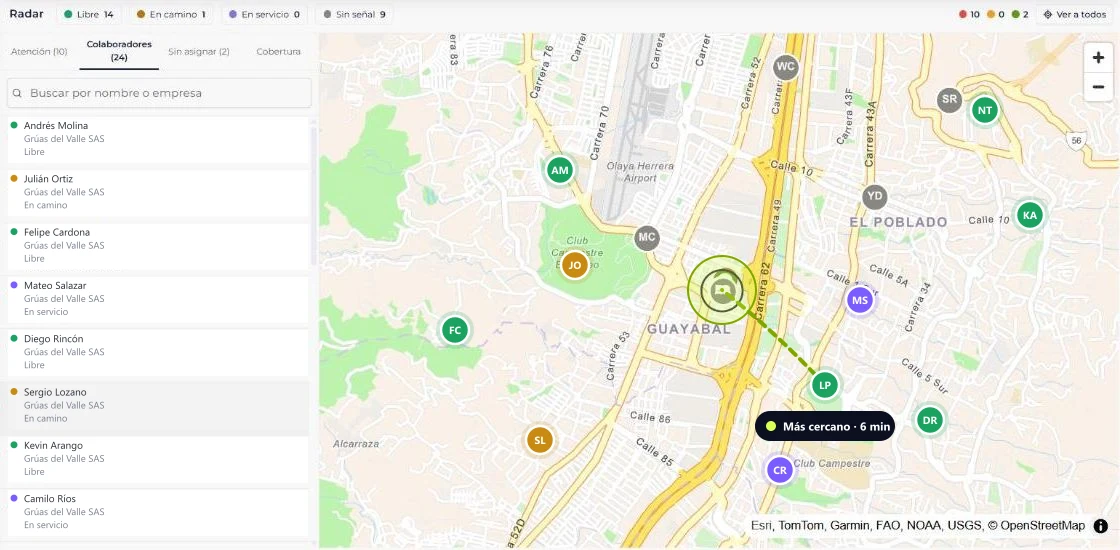
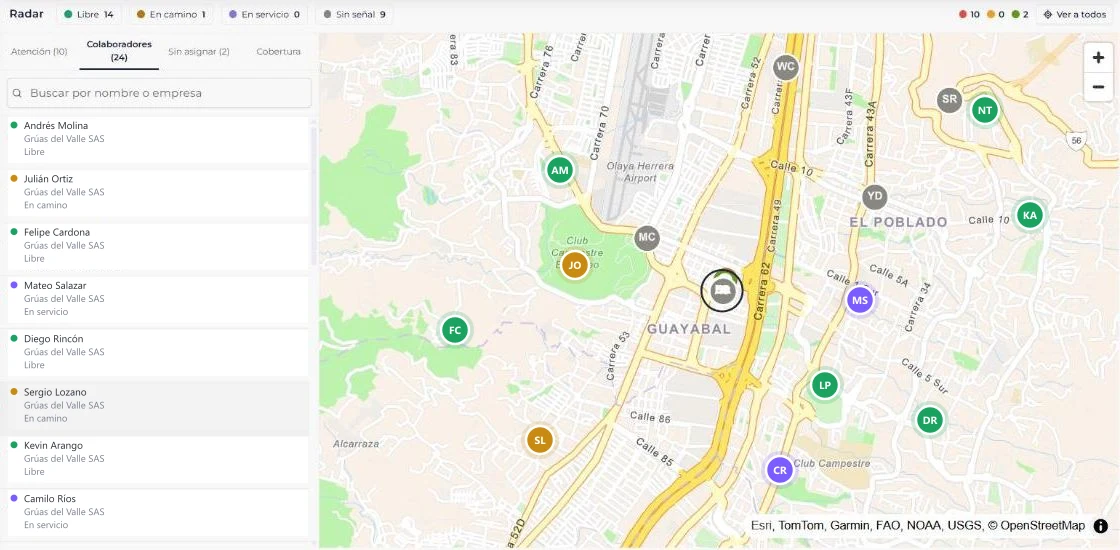
Proveedores: chat más compacto con WhatsApp en celular real y animación de asignación en el mapa. Inicio: hero con más aire

diff --git a/proveedores-de-asistencia/index.html b/proveedores-de-asistencia/index.html
@@ -3242,6 +3242,57 @@ body[data-page="prov"] main #contacto .iti__selected-dial-code,body[data-page="c
 @keyframes ulShine{0%,55%{transform:translateX(-120%)}80%,100%{transform:translateX(120%)}}
 @media(prefers-reduced-motion:reduce){.ul__src span,.ul__src i,.ul__ss,.ul__ss::after{animation:none}.ul__ss{transform:none}}
 
+/* Proveedores: novedades más compacta, fondo más oscuro y WhatsApp en un celular real */
+.nv__stage{max-width:1040px;margin-left:auto;margin-right:auto;grid-template-columns:minmax(0,1.3fr) minmax(0,.8fr);padding:clamp(16px,2.4vw,30px);background:radial-gradient(ellipse at 90% 110%,rgba(219,255,87,.18),transparent 55%),radial-gradient(ellipse at 0% 0%,rgba(47,123,255,.18),transparent 55%),linear-gradient(150deg,#0a1226,#05070e 75%)}
+.nv__stage::before{background-image:radial-gradient(circle,rgba(219,255,87,.09) 1px,transparent 1.6px)}
+.wc .nv__list{min-height:270px;gap:7px}
+.wc__m{font-size:12px;padding:7px 10px 16px}.wc__m--wa img{width:110px}
+.wc__area{padding:10px}
+.wc__tabs span{padding:6px 3px;font-size:10.5px}.wc__info b{font-size:10.5px}
+.ph{position:relative;justify-self:center;width:min(250px,100%);padding:9px;border-radius:44px;background:linear-gradient(145deg,#2b2f3a,#0b0d12);box-shadow:0 30px 60px rgba(0,0,0,.6),inset 0 0 0 1.5px #4a4f5c,inset 0 0 0 3px #12141a}
+.ph__btn{position:absolute;width:3px;border-radius:2px;background:#3a3f4b}
+.ph__btn--a{left:-2px;top:96px;height:26px}.ph__btn--b{left:-2px;top:132px;height:44px}.ph__btn--c{right:-2px;top:120px;height:62px}
+.ph__screen{position:relative;overflow:hidden;border-radius:36px;background:#ece5dd}
+.ph__bar{position:relative;display:flex;align-items:center;justify-content:space-between;height:34px;padding:0 20px;background:#075e54;color:#fff;font-size:11px}
+.ph__bar b{font-weight:700}
+.ph__island{position:absolute;left:50%;top:8px;width:72px;height:20px;margin-left:-36px;border-radius:12px;background:#000}
+.ph__icons{display:flex;align-items:center;gap:3px}.ph__icons i{width:3px;height:7px;border-radius:1px;background:#fff}.ph__icons i+i{height:9px}
+.ph__icons em{width:18px;height:9px;margin-left:3px;border-radius:3px;border:1.5px solid #fff;background:linear-gradient(90deg,#fff 70%,transparent 70%);background-clip:content-box;padding:1px}
+.ph .nv__wa-h{border-radius:0;padding:8px 12px 10px}
+.ph .nv__wa-b{border-radius:0;min-height:260px;padding:10px 8px;gap:6px}
+.ph .nv__b{font-size:11.5px}
+.ph__in{display:flex;align-items:center;gap:8px;padding:6px 8px 8px;background:#ece5dd}
+.ph__in span{flex:1;padding:7px 12px;border-radius:999px;background:#fff;color:#8a909c;font-size:11px}
+.ph__in i{width:30px;height:30px;border-radius:50%;background:#25d366 radial-gradient(circle at 50% 42%,#fff 0 3px,transparent 3.5px);flex:none}
+.ph__home{display:block;width:90px;height:4px;margin:2px auto 7px;border-radius:3px;background:#1b1f2a;opacity:.6}
+@media(max-width:900px){.nv__stage{grid-template-columns:1fr}}
+
+/* Proveedores: animación de asignación en el mapa */
+.as{position:relative}
+.as img{display:block;width:100%;height:auto}
+.as__fx{position:absolute;inset:0;width:100%;height:100%;overflow:visible}
+.as__ping{fill:none;stroke:#7fa600;stroke-width:3;transform-origin:722px 290px;animation:asPing 8s ease-out infinite}
+.as__ping--2{animation-delay:.6s}
+.as__svc{fill:rgba(219,255,87,.25);stroke:#7fa600;stroke-width:2}
+.as__route{fill:none;stroke:#7fa600;stroke-width:5;stroke-linecap:round;stroke-dasharray:100;stroke-dashoffset:100;animation:asRoute 8s ease infinite}
+.as__ring{fill:none;stroke:#dbff57;stroke-width:5;transform-origin:825px 385px;opacity:0;animation:asRing 8s ease infinite}
+.as__chip{opacity:0;transform-origin:825px 428px;animation:asChip 8s ease infinite}
+.as__chip rect{fill:#0b1020}.as__chip circle{fill:#dbff57}
+.as__chip text{fill:#fff;font:700 12px Roboto,Arial,sans-serif}
+@keyframes asPing{0%{transform:scale(1);opacity:.9}28%{transform:scale(5);opacity:0}100%{transform:scale(5);opacity:0}}
+@keyframes asRoute{0%,28%{stroke-dashoffset:100}48%,90%{stroke-dashoffset:0;opacity:1}97%,100%{stroke-dashoffset:0;opacity:0}}
+@keyframes asRing{0%,46%{opacity:0;transform:scale(.6)}52%{opacity:1;transform:scale(1.25)}58%,90%{opacity:1;transform:scale(1)}97%,100%{opacity:0}}
+@keyframes asChip{0%,52%{opacity:0;transform:translateY(8px) scale(.9)}58%,90%{opacity:1;transform:none}97%,100%{opacity:0}}
+@media(prefers-reduced-motion:reduce){.as__ping{display:none}.as__route{animation:none;stroke-dashoffset:0}.as__ring,.as__chip{animation:none;opacity:1}}
+
+/* Inicio: hero con más aire entre los elementos */
+.cx-hero{min-height:100vh;min-height:100svh;display:flex;align-items:center;padding:clamp(120px,16vh,170px) 0 clamp(70px,10vh,110px)}
+.cx-hero > .wrap{width:100%}
+.cx-h1{margin-top:clamp(28px,4vh,40px)}
+.cx-side{margin-top:clamp(44px,6vh,64px)}
+.cx-doors{margin-top:clamp(22px,3vh,30px);max-width:700px;gap:18px}
+.cx-doors .door--lime{padding:16px 56px 16px 20px}
+
 /* Títulos en Roboto */
 .pain b,.calc__big,.trio h3,.funnel__in h3,.paste h3,.hero h1,.h2,.statement p:first-child,.statement p:nth-child(2),.auto h3,.data h3,.sol__card h3,.proof b,.chaos__word,.step b,.mode b{font-family:var(--display);letter-spacing:-.02em}
 .hero h1{font-weight:600;letter-spacing:-.025em}
@@ -3390,7 +3441,7 @@ window.addEventListener('message',function(e){
       <div class="cs-b cs-b--light rv" style="--rd:.1s"><div class="cs-b__t"><b>Firma del usuario en la app</b><span>El servicio cierra con la firma del usuario, sin papeles.</span></div><div class="cs-b__v"><div class="cs-sign"><svg viewBox="0 0 220 70" aria-hidden="true"><path d="M10 50c18-30 30-38 36-30s-10 34 2 30 18-36 30-32-6 30 6 28 20-24 34-22 4 20 18 18 30-12 74-14"/></svg><span>Firma del cliente</span></div></div></div>
       <div class="cs-b cs-b--navy rv"><div class="cs-b__t"><b>Novedades resueltas en el chat</b><span>Autorizaciones y novedades dentro de cada servicio, con quién autorizó qué y cuándo.</span></div></div>
       <div class="cs-b cs-b--blue rv" style="--rd:.05s"><div class="cs-b__t"><b>Radar de técnicos</b><span>Mira quién está libre, en camino o en servicio, sin llamar a nadie.</span></div></div>
-      <div class="cs-b cs-b--lime cs-b--full rv" style="--rd:.1s"><div class="cs-b__t"><b>Asigna al técnico más cercano</b><span>Tus técnicos conectados en el mapa, con su estado en vivo, para mandar al que está más cerca. Nombres de ejemplo.</span></div><div class="cs-b__v cs-b__v--img cs-b__v--map"><img src="/img/plataforma/proveedores/radar-tecnicos.webp" alt="Radar de Wip con los técnicos conectados en el mapa y el más cercano al servicio" width="1120" height="550" loading="lazy" decoding="async"></div></div>
+      <div class="cs-b cs-b--lime cs-b--full rv" style="--rd:.1s"><div class="cs-b__t"><b>Asigna al técnico más cercano</b><span>Tus técnicos conectados en el mapa, con su estado en vivo, para mandar al que está más cerca. Nombres de ejemplo.</span></div><div class="cs-b__v cs-b__v--img cs-b__v--map"><div class="as"><img src="/img/plataforma/proveedores/radar-tecnicos.webp" alt="Radar de Wip con los técnicos conectados en el mapa y el más cercano al servicio" width="1120" height="550" loading="lazy" decoding="async"><svg class="as__fx" viewBox="0 0 1120 550" aria-hidden="true"><circle class="as__ping" cx="722" cy="290" r="30"/><circle class="as__ping as__ping--2" cx="722" cy="290" r="30"/><circle class="as__svc" cx="722" cy="290" r="34"/><path class="as__route" d="M722 290 Q 760 350 825 385" pathLength="100"/><circle class="as__ring" cx="825" cy="385" r="22"/><g class="as__chip"><rect x="740" y="412" width="170" height="32" rx="16"/><circle cx="758" cy="428" r="5"/><text x="770" y="432.5">Asignado · llega en 6 min</text></g></svg></div></div></div>
     </div>
   </div>
 </section>
@@ -3417,7 +3468,7 @@ window.addEventListener('message',function(e){
         </div>
         <div class="wc__in"><span class="wc__emo"></span><span class="wc__ph">Escribe tu mensaje o usa la voz</span></div>
       </div>
-      <div class="nv__wa" aria-hidden="true">
+      <div class="nv__wa ph" aria-hidden="true"><span class="ph__btn ph__btn--a"></span><span class="ph__btn ph__btn--b"></span><span class="ph__btn ph__btn--c"></span><div class="ph__screen"><div class="ph__bar"><b>10:53</b><span class="ph__island"></span><span class="ph__icons"><i></i><i></i><em></em></span></div>
         <div class="nv__wa-h"><i>GV</i><div><b>Grúas del Valle</b><span>en línea</span></div></div>
         <div class="cht__list nv__wa-b">
           <div class="nv__b" style="--d:0">Hola Laura, tu grúa va en camino. Llega en 12 min.<em>10:38</em></div>
@@ -3426,6 +3477,7 @@ window.addEventListener('message',function(e){
           <div class="nv__b" style="--d:3">Listo, quedó autorizado. ✓<em>10:53</em></div>
           <div class="nv__b nv__b--me" style="--d:4">¡Gracias! 🙌<em>10:53</em></div>
         </div>
+        <div class="ph__in"><span>Mensaje</span><i></i></div><span class="ph__home"></span></div>
       </div>
     </div>
     <ul class="nv__pts rv">

diff --git a/index.html b/index.html
@@ -3242,6 +3242,57 @@ body[data-page="prov"] main #contacto .iti__selected-dial-code,body[data-page="c
 @keyframes ulShine{0%,55%{transform:translateX(-120%)}80%,100%{transform:translateX(120%)}}
 @media(prefers-reduced-motion:reduce){.ul__src span,.ul__src i,.ul__ss,.ul__ss::after{animation:none}.ul__ss{transform:none}}
 
+/* Proveedores: novedades más compacta, fondo más oscuro y WhatsApp en un celular real */
+.nv__stage{max-width:1040px;margin-left:auto;margin-right:auto;grid-template-columns:minmax(0,1.3fr) minmax(0,.8fr);padding:clamp(16px,2.4vw,30px);background:radial-gradient(ellipse at 90% 110%,rgba(219,255,87,.18),transparent 55%),radial-gradient(ellipse at 0% 0%,rgba(47,123,255,.18),transparent 55%),linear-gradient(150deg,#0a1226,#05070e 75%)}
+.nv__stage::before{background-image:radial-gradient(circle,rgba(219,255,87,.09) 1px,transparent 1.6px)}
+.wc .nv__list{min-height:270px;gap:7px}
+.wc__m{font-size:12px;padding:7px 10px 16px}.wc__m--wa img{width:110px}
+.wc__area{padding:10px}
+.wc__tabs span{padding:6px 3px;font-size:10.5px}.wc__info b{font-size:10.5px}
+.ph{position:relative;justify-self:center;width:min(250px,100%);padding:9px;border-radius:44px;background:linear-gradient(145deg,#2b2f3a,#0b0d12);box-shadow:0 30px 60px rgba(0,0,0,.6),inset 0 0 0 1.5px #4a4f5c,inset 0 0 0 3px #12141a}
+.ph__btn{position:absolute;width:3px;border-radius:2px;background:#3a3f4b}
+.ph__btn--a{left:-2px;top:96px;height:26px}.ph__btn--b{left:-2px;top:132px;height:44px}.ph__btn--c{right:-2px;top:120px;height:62px}
+.ph__screen{position:relative;overflow:hidden;border-radius:36px;background:#ece5dd}
+.ph__bar{position:relative;display:flex;align-items:center;justify-content:space-between;height:34px;padding:0 20px;background:#075e54;color:#fff;font-size:11px}
+.ph__bar b{font-weight:700}
+.ph__island{position:absolute;left:50%;top:8px;width:72px;height:20px;margin-left:-36px;border-radius:12px;background:#000}
+.ph__icons{display:flex;align-items:center;gap:3px}.ph__icons i{width:3px;height:7px;border-radius:1px;background:#fff}.ph__icons i+i{height:9px}
+.ph__icons em{width:18px;height:9px;margin-left:3px;border-radius:3px;border:1.5px solid #fff;background:linear-gradient(90deg,#fff 70%,transparent 70%);background-clip:content-box;padding:1px}
+.ph .nv__wa-h{border-radius:0;padding:8px 12px 10px}
+.ph .nv__wa-b{border-radius:0;min-height:260px;padding:10px 8px;gap:6px}
+.ph .nv__b{font-size:11.5px}
+.ph__in{display:flex;align-items:center;gap:8px;padding:6px 8px 8px;background:#ece5dd}
+.ph__in span{flex:1;padding:7px 12px;border-radius:999px;background:#fff;color:#8a909c;font-size:11px}
+.ph__in i{width:30px;height:30px;border-radius:50%;background:#25d366 radial-gradient(circle at 50% 42%,#fff 0 3px,transparent 3.5px);flex:none}
+.ph__home{display:block;width:90px;height:4px;margin:2px auto 7px;border-radius:3px;background:#1b1f2a;opacity:.6}
+@media(max-width:900px){.nv__stage{grid-template-columns:1fr}}
+
+/* Proveedores: animación de asignación en el mapa */
+.as{position:relative}
+.as img{display:block;width:100%;height:auto}
+.as__fx{position:absolute;inset:0;width:100%;height:100%;overflow:visible}
+.as__ping{fill:none;stroke:#7fa600;stroke-width:3;transform-origin:722px 290px;animation:asPing 8s ease-out infinite}
+.as__ping--2{animation-delay:.6s}
+.as__svc{fill:rgba(219,255,87,.25);stroke:#7fa600;stroke-width:2}
+.as__route{fill:none;stroke:#7fa600;stroke-width:5;stroke-linecap:round;stroke-dasharray:100;stroke-dashoffset:100;animation:asRoute 8s ease infinite}
+.as__ring{fill:none;stroke:#dbff57;stroke-width:5;transform-origin:825px 385px;opacity:0;animation:asRing 8s ease infinite}
+.as__chip{opacity:0;transform-origin:825px 428px;animation:asChip 8s ease infinite}
+.as__chip rect{fill:#0b1020}.as__chip circle{fill:#dbff57}
+.as__chip text{fill:#fff;font:700 12px Roboto,Arial,sans-serif}
+@keyframes asPing{0%{transform:scale(1);opacity:.9}28%{transform:scale(5);opacity:0}100%{transform:scale(5);opacity:0}}
+@keyframes asRoute{0%,28%{stroke-dashoffset:100}48%,90%{stroke-dashoffset:0;opacity:1}97%,100%{stroke-dashoffset:0;opacity:0}}
+@keyframes asRing{0%,46%{opacity:0;transform:scale(.6)}52%{opacity:1;transform:scale(1.25)}58%,90%{opacity:1;transform:scale(1)}97%,100%{opacity:0}}
+@keyframes asChip{0%,52%{opacity:0;transform:translateY(8px) scale(.9)}58%,90%{opacity:1;transform:none}97%,100%{opacity:0}}
+@media(prefers-reduced-motion:reduce){.as__ping{display:none}.as__route{animation:none;stroke-dashoffset:0}.as__ring,.as__chip{animation:none;opacity:1}}
+
+/* Inicio: hero con más aire entre los elementos */
+.cx-hero{min-height:100vh;min-height:100svh;display:flex;align-items:center;padding:clamp(120px,16vh,170px) 0 clamp(70px,10vh,110px)}
+.cx-hero > .wrap{width:100%}
+.cx-h1{margin-top:clamp(28px,4vh,40px)}
+.cx-side{margin-top:clamp(44px,6vh,64px)}
+.cx-doors{margin-top:clamp(22px,3vh,30px);max-width:700px;gap:18px}
+.cx-doors .door--lime{padding:16px 56px 16px 20px}
+
 /* Títulos en Roboto */
 .pain b,.calc__big,.trio h3,.funnel__in h3,.paste h3,.hero h1,.h2,.statement p:first-child,.statement p:nth-child(2),.auto h3,.data h3,.sol__card h3,.proof b,.chaos__word,.step b,.mode b{font-family:var(--display);letter-spacing:-.02em}
 .hero h1{font-weight:600;letter-spacing:-.025em}

diff --git a/preguntas-frecuentes/index.html b/preguntas-frecuentes/index.html
@@ -3242,6 +3242,57 @@ body[data-page="prov"] main #contacto .iti__selected-dial-code,body[data-page="c
 @keyframes ulShine{0%,55%{transform:translateX(-120%)}80%,100%{transform:translateX(120%)}}
 @media(prefers-reduced-motion:reduce){.ul__src span,.ul__src i,.ul__ss,.ul__ss::after{animation:none}.ul__ss{transform:none}}
 
+/* Proveedores: novedades más compacta, fondo más oscuro y WhatsApp en un celular real */
+.nv__stage{max-width:1040px;margin-left:auto;margin-right:auto;grid-template-columns:minmax(0,1.3fr) minmax(0,.8fr);padding:clamp(16px,2.4vw,30px);background:radial-gradient(ellipse at 90% 110%,rgba(219,255,87,.18),transparent 55%),radial-gradient(ellipse at 0% 0%,rgba(47,123,255,.18),transparent 55%),linear-gradient(150deg,#0a1226,#05070e 75%)}
+.nv__stage::before{background-image:radial-gradient(circle,rgba(219,255,87,.09) 1px,transparent 1.6px)}
+.wc .nv__list{min-height:270px;gap:7px}
+.wc__m{font-size:12px;padding:7px 10px 16px}.wc__m--wa img{width:110px}
+.wc__area{padding:10px}
+.wc__tabs span{padding:6px 3px;font-size:10.5px}.wc__info b{font-size:10.5px}
+.ph{position:relative;justify-self:center;width:min(250px,100%);padding:9px;border-radius:44px;background:linear-gradient(145deg,#2b2f3a,#0b0d12);box-shadow:0 30px 60px rgba(0,0,0,.6),inset 0 0 0 1.5px #4a4f5c,inset 0 0 0 3px #12141a}
+.ph__btn{position:absolute;width:3px;border-radius:2px;background:#3a3f4b}
+.ph__btn--a{left:-2px;top:96px;height:26px}.ph__btn--b{left:-2px;top:132px;height:44px}.ph__btn--c{right:-2px;top:120px;height:62px}
+.ph__screen{position:relative;overflow:hidden;border-radius:36px;background:#ece5dd}
+.ph__bar{position:relative;display:flex;align-items:center;justify-content:space-between;height:34px;padding:0 20px;background:#075e54;color:#fff;font-size:11px}
+.ph__bar b{font-weight:700}
+.ph__island{position:absolute;left:50%;top:8px;width:72px;height:20px;margin-left:-36px;border-radius:12px;background:#000}
+.ph__icons{display:flex;align-items:center;gap:3px}.ph__icons i{width:3px;height:7px;border-radius:1px;background:#fff}.ph__icons i+i{height:9px}
+.ph__icons em{width:18px;height:9px;margin-left:3px;border-radius:3px;border:1.5px solid #fff;background:linear-gradient(90deg,#fff 70%,transparent 70%);background-clip:content-box;padding:1px}
+.ph .nv__wa-h{border-radius:0;padding:8px 12px 10px}
+.ph .nv__wa-b{border-radius:0;min-height:260px;padding:10px 8px;gap:6px}
+.ph .nv__b{font-size:11.5px}
+.ph__in{display:flex;align-items:center;gap:8px;padding:6px 8px 8px;background:#ece5dd}
+.ph__in span{flex:1;padding:7px 12px;border-radius:999px;background:#fff;color:#8a909c;font-size:11px}
+.ph__in i{width:30px;height:30px;border-radius:50%;background:#25d366 radial-gradient(circle at 50% 42%,#fff 0 3px,transparent 3.5px);flex:none}
+.ph__home{display:block;width:90px;height:4px;margin:2px auto 7px;border-radius:3px;background:#1b1f2a;opacity:.6}
+@media(max-width:900px){.nv__stage{grid-template-columns:1fr}}
+
+/* Proveedores: animación de asignación en el mapa */
+.as{position:relative}
+.as img{display:block;width:100%;height:auto}
+.as__fx{position:absolute;inset:0;width:100%;height:100%;overflow:visible}
+.as__ping{fill:none;stroke:#7fa600;stroke-width:3;transform-origin:722px 290px;animation:asPing 8s ease-out infinite}
+.as__ping--2{animation-delay:.6s}
+.as__svc{fill:rgba(219,255,87,.25);stroke:#7fa600;stroke-width:2}
+.as__route{fill:none;stroke:#7fa600;stroke-width:5;stroke-linecap:round;stroke-dasharray:100;stroke-dashoffset:100;animation:asRoute 8s ease infinite}
+.as__ring{fill:none;stroke:#dbff57;stroke-width:5;transform-origin:825px 385px;opacity:0;animation:asRing 8s ease infinite}
+.as__chip{opacity:0;transform-origin:825px 428px;animation:asChip 8s ease infinite}
+.as__chip rect{fill:#0b1020}.as__chip circle{fill:#dbff57}
+.as__chip text{fill:#fff;font:700 12px Roboto,Arial,sans-serif}
+@keyframes asPing{0%{transform:scale(1);opacity:.9}28%{transform:scale(5);opacity:0}100%{transform:scale(5);opacity:0}}
+@keyframes asRoute{0%,28%{stroke-dashoffset:100}48%,90%{stroke-dashoffset:0;opacity:1}97%,100%{stroke-dashoffset:0;opacity:0}}
+@keyframes asRing{0%,46%{opacity:0;transform:scale(.6)}52%{opacity:1;transform:scale(1.25)}58%,90%{opacity:1;transform:scale(1)}97%,100%{opacity:0}}
+@keyframes asChip{0%,52%{opacity:0;transform:translateY(8px) scale(.9)}58%,90%{opacity:1;transform:none}97%,100%{opacity:0}}
+@media(prefers-reduced-motion:reduce){.as__ping{display:none}.as__route{animation:none;stroke-dashoffset:0}.as__ring,.as__chip{animation:none;opacity:1}}
+
+/* Inicio: hero con más aire entre los elementos */
+.cx-hero{min-height:100vh;min-height:100svh;display:flex;align-items:center;padding:clamp(120px,16vh,170px) 0 clamp(70px,10vh,110px)}
+.cx-hero > .wrap{width:100%}
+.cx-h1{margin-top:clamp(28px,4vh,40px)}
+.cx-side{margin-top:clamp(44px,6vh,64px)}
+.cx-doors{margin-top:clamp(22px,3vh,30px);max-width:700px;gap:18px}
+.cx-doors .door--lime{padding:16px 56px 16px 20px}
+
 /* Títulos en Roboto */
 .pain b,.calc__big,.trio h3,.funnel__in h3,.paste h3,.hero h1,.h2,.statement p:first-child,.statement p:nth-child(2),.auto h3,.data h3,.sol__card h3,.proof b,.chaos__word,.step b,.mode b{font-family:var(--display);letter-spacing:-.02em}
 .hero h1{font-weight:600;letter-spacing:-.025em}

diff --git a/software-empresas-de-asistencia/index.html b/software-empresas-de-asistencia/index.html
@@ -3242,6 +3242,57 @@ body[data-page="prov"] main #contacto .iti__selected-dial-code,body[data-page="c
 @keyframes ulShine{0%,55%{transform:translateX(-120%)}80%,100%{transform:translateX(120%)}}
 @media(prefers-reduced-motion:reduce){.ul__src span,.ul__src i,.ul__ss,.ul__ss::after{animation:none}.ul__ss{transform:none}}
 
+/* Proveedores: novedades más compacta, fondo más oscuro y WhatsApp en un celular real */
+.nv__stage{max-width:1040px;margin-left:auto;margin-right:auto;grid-template-columns:minmax(0,1.3fr) minmax(0,.8fr);padding:clamp(16px,2.4vw,30px);background:radial-gradient(ellipse at 90% 110%,rgba(219,255,87,.18),transparent 55%),radial-gradient(ellipse at 0% 0%,rgba(47,123,255,.18),transparent 55%),linear-gradient(150deg,#0a1226,#05070e 75%)}
+.nv__stage::before{background-image:radial-gradient(circle,rgba(219,255,87,.09) 1px,transparent 1.6px)}
+.wc .nv__list{min-height:270px;gap:7px}
+.wc__m{font-size:12px;padding:7px 10px 16px}.wc__m--wa img{width:110px}
+.wc__area{padding:10px}
+.wc__tabs span{padding:6px 3px;font-size:10.5px}.wc__info b{font-size:10.5px}
+.ph{position:relative;justify-self:center;width:min(250px,100%);padding:9px;border-radius:44px;background:linear-gradient(145deg,#2b2f3a,#0b0d12);box-shadow:0 30px 60px rgba(0,0,0,.6),inset 0 0 0 1.5px #4a4f5c,inset 0 0 0 3px #12141a}
+.ph__btn{position:absolute;width:3px;border-radius:2px;background:#3a3f4b}
+.ph__btn--a{left:-2px;top:96px;height:26px}.ph__btn--b{left:-2px;top:132px;height:44px}.ph__btn--c{right:-2px;top:120px;height:62px}
+.ph__screen{position:relative;overflow:hidden;border-radius:36px;background:#ece5dd}
+.ph__bar{position:relative;display:flex;align-items:center;justify-content:space-between;height:34px;padding:0 20px;background:#075e54;color:#fff;font-size:11px}
+.ph__bar b{font-weight:700}
+.ph__island{position:absolute;left:50%;top:8px;width:72px;height:20px;margin-left:-36px;border-radius:12px;background:#000}
+.ph__icons{display:flex;align-items:center;gap:3px}.ph__icons i{width:3px;height:7px;border-radius:1px;background:#fff}.ph__icons i+i{height:9px}
+.ph__icons em{width:18px;height:9px;margin-left:3px;border-radius:3px;border:1.5px solid #fff;background:linear-gradient(90deg,#fff 70%,transparent 70%);background-clip:content-box;padding:1px}
+.ph .nv__wa-h{border-radius:0;padding:8px 12px 10px}
+.ph .nv__wa-b{border-radius:0;min-height:260px;padding:10px 8px;gap:6px}
+.ph .nv__b{font-size:11.5px}
+.ph__in{display:flex;align-items:center;gap:8px;padding:6px 8px 8px;background:#ece5dd}
+.ph__in span{flex:1;padding:7px 12px;border-radius:999px;background:#fff;color:#8a909c;font-size:11px}
+.ph__in i{width:30px;height:30px;border-radius:50%;background:#25d366 radial-gradient(circle at 50% 42%,#fff 0 3px,transparent 3.5px);flex:none}
+.ph__home{display:block;width:90px;height:4px;margin:2px auto 7px;border-radius:3px;background:#1b1f2a;opacity:.6}
+@media(max-width:900px){.nv__stage{grid-template-columns:1fr}}
+
+/* Proveedores: animación de asignación en el mapa */
+.as{position:relative}
+.as img{display:block;width:100%;height:auto}
+.as__fx{position:absolute;inset:0;width:100%;height:100%;overflow:visible}
+.as__ping{fill:none;stroke:#7fa600;stroke-width:3;transform-origin:722px 290px;animation:asPing 8s ease-out infinite}
+.as__ping--2{animation-delay:.6s}
+.as__svc{fill:rgba(219,255,87,.25);stroke:#7fa600;stroke-width:2}
+.as__route{fill:none;stroke:#7fa600;stroke-width:5;stroke-linecap:round;stroke-dasharray:100;stroke-dashoffset:100;animation:asRoute 8s ease infinite}
+.as__ring{fill:none;stroke:#dbff57;stroke-width:5;transform-origin:825px 385px;opacity:0;animation:asRing 8s ease infinite}
+.as__chip{opacity:0;transform-origin:825px 428px;animation:asChip 8s ease infinite}
+.as__chip rect{fill:#0b1020}.as__chip circle{fill:#dbff57}
+.as__chip text{fill:#fff;font:700 12px Roboto,Arial,sans-serif}
+@keyframes asPing{0%{transform:scale(1);opacity:.9}28%{transform:scale(5);opacity:0}100%{transform:scale(5);opacity:0}}
+@keyframes asRoute{0%,28%{stroke-dashoffset:100}48%,90%{stroke-dashoffset:0;opacity:1}97%,100%{stroke-dashoffset:0;opacity:0}}
+@keyframes asRing{0%,46%{opacity:0;transform:scale(.6)}52%{opacity:1;transform:scale(1.25)}58%,90%{opacity:1;transform:scale(1)}97%,100%{opacity:0}}
+@keyframes asChip{0%,52%{opacity:0;transform:translateY(8px) scale(.9)}58%,90%{opacity:1;transform:none}97%,100%{opacity:0}}
+@media(prefers-reduced-motion:reduce){.as__ping{display:none}.as__route{animation:none;stroke-dashoffset:0}.as__ring,.as__chip{animation:none;opacity:1}}
+
+/* Inicio: hero con más aire entre los elementos */
+.cx-hero{min-height:100vh;min-height:100svh;display:flex;align-items:center;padding:clamp(120px,16vh,170px) 0 clamp(70px,10vh,110px)}
+.cx-hero > .wrap{width:100%}
+.cx-h1{margin-top:clamp(28px,4vh,40px)}
+.cx-side{margin-top:clamp(44px,6vh,64px)}
+.cx-doors{margin-top:clamp(22px,3vh,30px);max-width:700px;gap:18px}
+.cx-doors .door--lime{padding:16px 56px 16px 20px}
+
 /* Títulos en Roboto */
 .pain b,.calc__big,.trio h3,.funnel__in h3,.paste h3,.hero h1,.h2,.statement p:first-child,.statement p:nth-child(2),.auto h3,.data h3,.sol__card h3,.proof b,.chaos__word,.step b,.mode b{font-family:var(--display);letter-spacing:-.02em}
 .hero h1{font-weight:600;letter-spacing:-.025em}

diff --git a/scripts/sitio/parts/sitio.css b/scripts/sitio/parts/sitio.css
@@ -2595,3 +2595,54 @@ body[data-page="prov"] main #contacto .iti__selected-dial-code,body[data-page="c
 @keyframes ulFloat{0%,100%{translate:0 4px}50%{translate:0 -6px}}
 @keyframes ulShine{0%,55%{transform:translateX(-120%)}80%,100%{transform:translateX(120%)}}
 @media(prefers-reduced-motion:reduce){.ul__src span,.ul__src i,.ul__ss,.ul__ss::after{animation:none}.ul__ss{transform:none}}
+
+/* Proveedores: novedades más compacta, fondo más oscuro y WhatsApp en un celular real */
+.nv__stage{max-width:1040px;margin-left:auto;margin-right:auto;grid-template-columns:minmax(0,1.3fr) minmax(0,.8fr);padding:clamp(16px,2.4vw,30px);background:radial-gradient(ellipse at 90% 110%,rgba(219,255,87,.18),transparent 55%),radial-gradient(ellipse at 0% 0%,rgba(47,123,255,.18),transparent 55%),linear-gradient(150deg,#0a1226,#05070e 75%)}
+.nv__stage::before{background-image:radial-gradient(circle,rgba(219,255,87,.09) 1px,transparent 1.6px)}
+.wc .nv__list{min-height:270px;gap:7px}
+.wc__m{font-size:12px;padding:7px 10px 16px}.wc__m--wa img{width:110px}
+.wc__area{padding:10px}
+.wc__tabs span{padding:6px 3px;font-size:10.5px}.wc__info b{font-size:10.5px}
+.ph{position:relative;justify-self:center;width:min(250px,100%);padding:9px;border-radius:44px;background:linear-gradient(145deg,#2b2f3a,#0b0d12);box-shadow:0 30px 60px rgba(0,0,0,.6),inset 0 0 0 1.5px #4a4f5c,inset 0 0 0 3px #12141a}
+.ph__btn{position:absolute;width:3px;border-radius:2px;background:#3a3f4b}
+.ph__btn--a{left:-2px;top:96px;height:26px}.ph__btn--b{left:-2px;top:132px;height:44px}.ph__btn--c{right:-2px;top:120px;height:62px}
+.ph__screen{position:relative;overflow:hidden;border-radius:36px;background:#ece5dd}
+.ph__bar{position:relative;display:flex;align-items:center;justify-content:space-between;height:34px;padding:0 20px;background:#075e54;color:#fff;font-size:11px}
+.ph__bar b{font-weight:700}
+.ph__island{position:absolute;left:50%;top:8px;width:72px;height:20px;margin-left:-36px;border-radius:12px;background:#000}
+.ph__icons{display:flex;align-items:center;gap:3px}.ph__icons i{width:3px;height:7px;border-radius:1px;background:#fff}.ph__icons i+i{height:9px}
+.ph__icons em{width:18px;height:9px;margin-left:3px;border-radius:3px;border:1.5px solid #fff;background:linear-gradient(90deg,#fff 70%,transparent 70%);background-clip:content-box;padding:1px}
+.ph .nv__wa-h{border-radius:0;padding:8px 12px 10px}
+.ph .nv__wa-b{border-radius:0;min-height:260px;padding:10px 8px;gap:6px}
+.ph .nv__b{font-size:11.5px}
+.ph__in{display:flex;align-items:center;gap:8px;padding:6px 8px 8px;background:#ece5dd}
+.ph__in span{flex:1;padding:7px 12px;border-radius:999px;background:#fff;color:#8a909c;font-size:11px}
+.ph__in i{width:30px;height:30px;border-radius:50%;background:#25d366 radial-gradient(circle at 50% 42%,#fff 0 3px,transparent 3.5px);flex:none}
+.ph__home{display:block;width:90px;height:4px;margin:2px auto 7px;border-radius:3px;background:#1b1f2a;opacity:.6}
+@media(max-width:900px){.nv__stage{grid-template-columns:1fr}}
+
+/* Proveedores: animación de asignación en el mapa */
+.as{position:relative}
+.as img{display:block;width:100%;height:auto}
+.as__fx{position:absolute;inset:0;width:100%;height:100%;overflow:visible}
+.as__ping{fill:none;stroke:#7fa600;stroke-width:3;transform-origin:722px 290px;animation:asPing 8s ease-out infinite}
+.as__ping--2{animation-delay:.6s}
+.as__svc{fill:rgba(219,255,87,.25);stroke:#7fa600;stroke-width:2}
+.as__route{fill:none;stroke:#7fa600;stroke-width:5;stroke-linecap:round;stroke-dasharray:100;stroke-dashoffset:100;animation:asRoute 8s ease infinite}
+.as__ring{fill:none;stroke:#dbff57;stroke-width:5;transform-origin:825px 385px;opacity:0;animation:asRing 8s ease infinite}
+.as__chip{opacity:0;transform-origin:825px 428px;animation:asChip 8s ease infinite}
+.as__chip rect{fill:#0b1020}.as__chip circle{fill:#dbff57}
+.as__chip text{fill:#fff;font:700 12px Roboto,Arial,sans-serif}
+@keyframes asPing{0%{transform:scale(1);opacity:.9}28%{transform:scale(5);opacity:0}100%{transform:scale(5);opacity:0}}
+@keyframes asRoute{0%,28%{stroke-dashoffset:100}48%,90%{stroke-dashoffset:0;opacity:1}97%,100%{stroke-dashoffset:0;opacity:0}}
+@keyframes asRing{0%,46%{opacity:0;transform:scale(.6)}52%{opacity:1;transform:scale(1.25)}58%,90%{opacity:1;transform:scale(1)}97%,100%{opacity:0}}
+@keyframes asChip{0%,52%{opacity:0;transform:translateY(8px) scale(.9)}58%,90%{opacity:1;transform:none}97%,100%{opacity:0}}
+@media(prefers-reduced-motion:reduce){.as__ping{display:none}.as__route{animation:none;stroke-dashoffset:0}.as__ring,.as__chip{animation:none;opacity:1}}
+
+/* Inicio: hero con más aire entre los elementos */
+.cx-hero{min-height:100vh;min-height:100svh;display:flex;align-items:center;padding:clamp(120px,16vh,170px) 0 clamp(70px,10vh,110px)}
+.cx-hero > .wrap{width:100%}
+.cx-h1{margin-top:clamp(28px,4vh,40px)}
+.cx-side{margin-top:clamp(44px,6vh,64px)}
+.cx-doors{margin-top:clamp(22px,3vh,30px);max-width:700px;gap:18px}
+.cx-doors .door--lime{padding:16px 56px 16px 20px}

diff --git a/scripts/sitio/parts/proveedores.html b/scripts/sitio/parts/proveedores.html
@@ -42,7 +42,7 @@
       <div class="cs-b cs-b--light rv" style="--rd:.1s"><div class="cs-b__t"><b>Firma del usuario en la app</b><span>El servicio cierra con la firma del usuario, sin papeles.</span></div><div class="cs-b__v"><div class="cs-sign"><svg viewBox="0 0 220 70" aria-hidden="true"><path d="M10 50c18-30 30-38 36-30s-10 34 2 30 18-36 30-32-6 30 6 28 20-24 34-22 4 20 18 18 30-12 74-14"/></svg><span>Firma del cliente</span></div></div></div>
       <div class="cs-b cs-b--navy rv"><div class="cs-b__t"><b>Novedades resueltas en el chat</b><span>Autorizaciones y novedades dentro de cada servicio, con quién autorizó qué y cuándo.</span></div></div>
       <div class="cs-b cs-b--blue rv" style="--rd:.05s"><div class="cs-b__t"><b>Radar de técnicos</b><span>Mira quién está libre, en camino o en servicio, sin llamar a nadie.</span></div></div>
-      <div class="cs-b cs-b--lime cs-b--full rv" style="--rd:.1s"><div class="cs-b__t"><b>Asigna al técnico más cercano</b><span>Tus técnicos conectados en el mapa, con su estado en vivo, para mandar al que está más cerca. Nombres de ejemplo.</span></div><div class="cs-b__v cs-b__v--img cs-b__v--map"><img src="/img/plataforma/proveedores/radar-tecnicos.webp" alt="Radar de Wip con los técnicos conectados en el mapa y el más cercano al servicio" width="1120" height="550" loading="lazy" decoding="async"></div></div>
+      <div class="cs-b cs-b--lime cs-b--full rv" style="--rd:.1s"><div class="cs-b__t"><b>Asigna al técnico más cercano</b><span>Tus técnicos conectados en el mapa, con su estado en vivo, para mandar al que está más cerca. Nombres de ejemplo.</span></div><div class="cs-b__v cs-b__v--img cs-b__v--map"><div class="as"><img src="/img/plataforma/proveedores/radar-tecnicos.webp" alt="Radar de Wip con los técnicos conectados en el mapa y el más cercano al servicio" width="1120" height="550" loading="lazy" decoding="async"><svg class="as__fx" viewBox="0 0 1120 550" aria-hidden="true"><circle class="as__ping" cx="722" cy="290" r="30"/><circle class="as__ping as__ping--2" cx="722" cy="290" r="30"/><circle class="as__svc" cx="722" cy="290" r="34"/><path class="as__route" d="M722 290 Q 760 350 825 385" pathLength="100"/><circle class="as__ring" cx="825" cy="385" r="22"/><g class="as__chip"><rect x="740" y="412" width="170" height="32" rx="16"/><circle cx="758" cy="428" r="5"/><text x="770" y="432.5">Asignado · llega en 6 min</text></g></svg></div></div></div>
     </div>
   </div>
 </section>
@@ -69,7 +69,7 @@
         </div>
         <div class="wc__in"><span class="wc__emo"></span><span class="wc__ph">Escribe tu mensaje o usa la voz</span></div>
       </div>
-      <div class="nv__wa" aria-hidden="true">
+      <div class="nv__wa ph" aria-hidden="true"><span class="ph__btn ph__btn--a"></span><span class="ph__btn ph__btn--b"></span><span class="ph__btn ph__btn--c"></span><div class="ph__screen"><div class="ph__bar"><b>10:53</b><span class="ph__island"></span><span class="ph__icons"><i></i><i></i><em></em></span></div>
         <div class="nv__wa-h"><i>GV</i><div><b>Grúas del Valle</b><span>en línea</span></div></div>
         <div class="cht__list nv__wa-b">
           <div class="nv__b" style="--d:0">Hola Laura, tu grúa va en camino. Llega en 12 min.<em>10:38</em></div>
@@ -78,6 +78,7 @@
           <div class="nv__b" style="--d:3">Listo, quedó autorizado. ✓<em>10:53</em></div>
           <div class="nv__b nv__b--me" style="--d:4">¡Gracias! 🙌<em>10:53</em></div>
         </div>
+        <div class="ph__in"><span>Mensaje</span><i></i></div><span class="ph__home"></span></div>
       </div>
     </div>
     <ul class="nv__pts rv">
